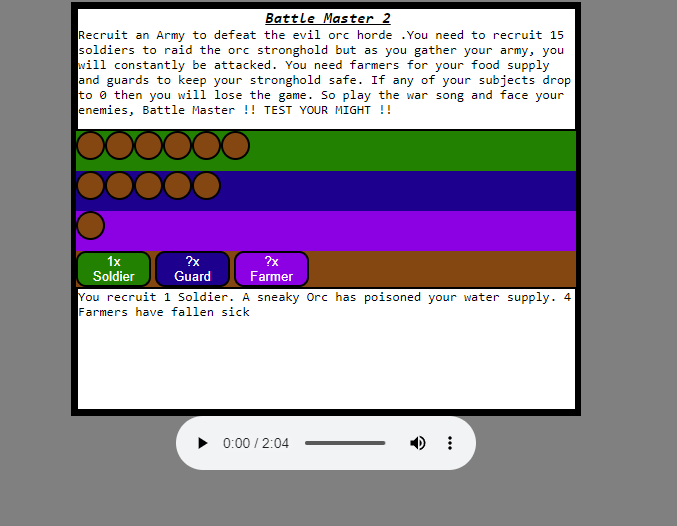
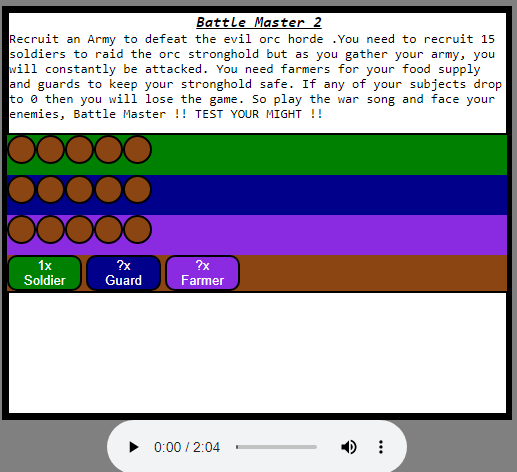
Add files via upload

diff --git a/index.html b/index.html
@@ -23,22 +23,22 @@
 <div class="introduction animate__animated animate__backInLeft ">5 HTML/CSS/ Vanilla JavaScript Games. Visit my GitHub for the code.</div>
 
 <div class="grid">
-    <div class="image animate__animated animate__backInLeft " ><img width="550" height="550" src="images/Robot.PNG"> 
+    <div class="image animate__animated animate__backInLeft " ><img width="480" height="550" src="images/Robot.PNG"> 
         <div class="title"> <a href="https://ninedeadeyes.github.io/When-Robots-Attack/" target="_blank" > Game: When Robots Attack (Shoot em up) </a> </div>
     </div>
-    <div class="image animate__animated animate__backInDown  " ><img width="550" height="550" src="images/Dungeon.PNG"> 
+    <div class="image animate__animated animate__backInDown  " ><img width="480" height="550" src="images/Dungeon.PNG"> 
         <div class="title"> <a href="https://ninedeadeyes.github.io/Dungeon-Crawl-Online/" target="_blank" > Game: Dungeon Crawl Online (Adventure) </a> </div>
     </div>
-    <div class="image animate__animated animate__backInRight " ><img width="550" height="550" src="images/Blood.PNG"> 
+    <div class="image animate__animated animate__backInRight " ><img width="480" height="550" src="images/Blood.PNG"> 
         <div class="title"> <a href="https://ninedeadeyes.github.io/Blood-Pit-2/" target="_blank" > Game: Blood Pit 2 (Tactical RPG) </a> </div>
     </div>
-    <div class="image animate__animated animate__backInLeft   " ><img width="550" height="550" src="images/Knight.PNG"> 
+    <div class="image animate__animated animate__backInLeft   " ><img width="480" height="550" src="images/Knight.PNG"> 
         <div class="title"> <a href="https://ninedeadeyes.github.io/100-lines-JS-game-Knight-Run/" target="_blank" > Game: Knight Run (Platform) </a> </div>
     </div>
-    <div class="image animate__animated animate__backInUp  " ><iframe width="550" height="550" src="https://www.youtube.com/embed/fUSiUGn10CI" title="YouTube video player" frameborder="0" allow="accelerometer; autoplay; clipboard-write; encrypted-media; gyroscope; picture-in-picture" allowfullscreen></iframe>
+    <div class="image animate__animated animate__backInUp  " ><iframe width="480" height="550" src="https://www.youtube.com/embed/fUSiUGn10CI" title="YouTube video player" frameborder="0" allow="accelerometer; autoplay; clipboard-write; encrypted-media; gyroscope; picture-in-picture" allowfullscreen></iframe>
         <div class="title"><a href="https://www.youtube.com/channel/UC-nO6bNnPx78d9iX1Z7vysw" target="_blank" > YouTube </a></div>
     </div>
-    <div class="image animate__animated animate__backInRight " ><img width="550" height="550" src="images/Battle.PNG"> 
+    <div class="image animate__animated animate__backInRight " ><img width="480" height="550" src="images/Battle.PNG"> 
         <div class="title"> <a href="https://ninedeadeyes.github.io/BattleMaster2/" target="_blank" > Game: Battle Master 2 (Strategy) </a> </div>
     </div>
 

diff --git a/style.css b/style.css
@@ -28,18 +28,20 @@ a:visited {
     }
 
 a:hover {
-    color: red;
+    color: purple;
     }
+
+
 
 .grid{
     background:white;
     display:grid;
-    grid-template-columns: repeat(auto-fill, minmax(450px , 1fr));
+    grid-template-columns: repeat(auto-fill, minmax(500px , 1fr));
     grid-auto-rows: minmax(100px,auto); 
     gap:1.5em;
     justify-items: stretch;     /* start,center,end x axis  */
     align-items:stretch;    /* start,center,end y axis strech=default  */
-    margin-left: 2%;
+    margin-left:6%;
     font-size: 1.2em;
     margin-bottom:120px;  /* because of footer   */
 
@@ -58,7 +60,7 @@ a:hover {
 
 .title{
 text-decoration-line: underline;
-text-align: center;
+text-align: start;
 }
 
 .image{
@@ -67,7 +69,7 @@ text-align: center;
 }
 
 .image:hover{
-    font-size: 1.4em;
+    font-size: 1.2em;
 }
 
 .headContainer{
@@ -88,6 +90,10 @@ text-align: center;
 .link{
     font-size:1.5em;
     margin-right: 10px;
+    color: aqua;
+    border: 1em;
+    border-color: black;
+    text-decoration-line: none;
     
 
 }
@@ -129,6 +135,7 @@ text-align: center;
     padding-left: 10px;
    
 }
+
 
 
 @media(max-width:600px){      /*Reponsive design for smaller tablet and large smartphones   */
